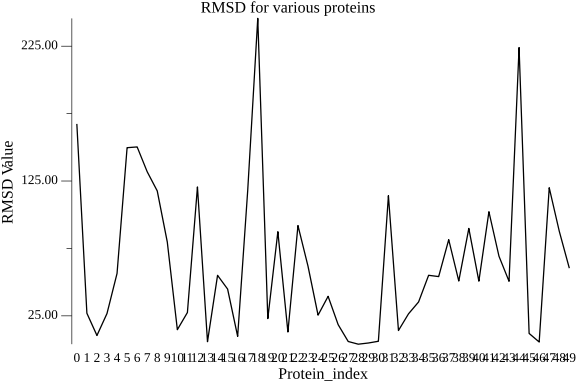
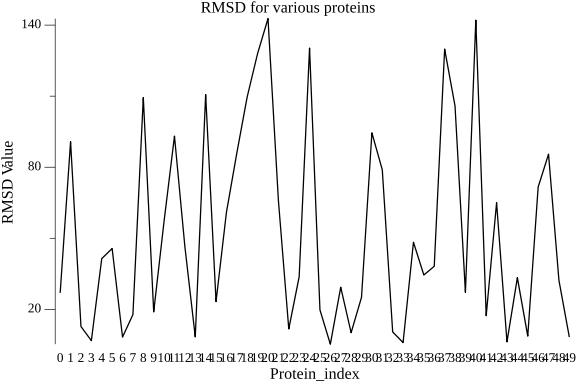
testing function, delete unneccesary rmsd curves

Changed region(s): [[0.0, 0.0312, 1.0, 1.0], [0.0, 0.5312, 0.0312, 0.5938]]

diff --git a/metropolisMethod/metropolis_test.go b/metropolisMethod/metropolis_test.go
@@ -1,0 +1,202 @@
+package main
+
+import (
+	"math"
+	"testing"
+)
+
+func TestSimulateMultipleLigands(t *testing.T) {
+	protein := createMockProtein(1.0, -1.0)
+	ligands := createMockLigands(3)
+	iterations := 1000
+	temperature := 300.0
+	numProcs := 4
+
+	minLigands, minEnergies := SimulateMultipleLigands(protein, ligands, iterations, true, temperature, numProcs)
+
+	if len(minLigands) != len(ligands) || len(minEnergies) != len(ligands) {
+		t.Fatalf("Expected %d ligands and energies, got %d ligands and %d energies", len(ligands), len(minLigands), len(minEnergies))
+	}
+}
+
+func TestSimulateMultipleLigandsParallel(t *testing.T) {
+	protein := createMockProtein(1.0, -1.0)
+	ligands := createMockLigands(5)
+	iterations := 2000
+	temperature := 300.0
+	numProcs := 2
+
+	minLigands, minEnergies := SimulateMultipleLigandsParallel(protein, ligands, iterations, true, temperature, numProcs)
+
+	if len(minLigands) != len(ligands) || len(minEnergies) != len(ligands) {
+		t.Fatalf("Expected %d ligands and energies, got %d ligands and %d energies", len(ligands), len(minLigands), len(minEnergies))
+	}
+}
+
+func TestCalculateEnergyPositive(t *testing.T) {
+	protein := createMockProtein(1.0, 1.0)
+	ligand := createMockLigandWithCustomCharge(1.0, 1.0)
+
+	energy := CalculateEnergy(protein, ligand)
+
+	if energy <= 0 {
+		t.Errorf("Expected positive energy, got %f", energy)
+	}
+}
+
+func TestCalculateEnergyNegative(t *testing.T) {
+	protein := createMockProtein(1.0, 1.0)
+	ligand := createMockLigandWithCustomCharge(-1.0, -1.0)
+
+	energy := CalculateEnergy(protein, ligand)
+
+	if energy >= 0 {
+		t.Errorf("Expected negative energy, got %f", energy)
+	}
+}
+
+func TestAcceptMove(t *testing.T) {
+	currentEnergy := 10.0
+	newEnergy := 5.0
+	temperature := 300.0
+
+	accepted := AcceptMove(currentEnergy, newEnergy, temperature)
+	if !accepted {
+		t.Errorf("Expected move to be accepted")
+	}
+}
+
+func TestJitterLigand(t *testing.T) {
+	ligand := createMockLigand()
+	minDistance := 0.5
+
+	jittered := JitterLigand(ligand, minDistance)
+	if !IsCollisionFree(jittered, minDistance) {
+		t.Errorf("Expected collision-free ligand after jittering")
+	}
+}
+
+func TestRotateLigand(t *testing.T) {
+	ligand := createMockLigand()
+	oldLigand := createMockLigand()
+	maxAngle := math.Pi / 4
+
+	rotated := RotateLigand(ligand, maxAngle)
+	if rotated.atoms[0].Position == oldLigand.atoms[0].Position {
+		t.Errorf("Expected ligand to be rotated")
+	}
+}
+
+func TestShiftLigandCloserByThreshold(t *testing.T) {
+	protein := createMockProtein(1.0, -1.0)
+	ligand := createMockLigand()
+	threshold := 5.0
+
+	shifted := ShiftLigandCloserByThreshold(ligand, protein, threshold)
+	distance1 := Distance(shifted.atoms[0].Position, protein.atoms[0].Position)
+	distance2 := Distance(shifted.atoms[1].Position, protein.atoms[1].Position)
+	if distance1 > threshold && distance2 > threshold {
+		t.Errorf("Expected shifted ligand to be within threshold distance")
+	}
+}
+
+func TestCopyLigand(t *testing.T) {
+	ligand := createMockLigandWithCustomCharge(2.3, -8.7)
+	copied := CopyLigand(ligand)
+
+	if &ligand.atoms[0] == &copied.atoms[0] {
+		t.Errorf("Expected ligand to be deep copied")
+	}
+	if ligand.atoms[0] != ligand.atoms[0] || ligand.atoms[1] != ligand.atoms[1] {
+		t.Errorf("Ligand atom fields don't match")
+	}
+}
+
+func TestDistance(t *testing.T) {
+	pos1 := Position3d{X: 1, Y: 2, Z: 3}
+	pos2 := Position3d{X: 4, Y: 6, Z: 8}
+	expected := math.Sqrt(50)
+	result := Distance(pos1, pos2)
+
+	if result != expected {
+		t.Errorf("Expected distance %f, got %f", expected, result)
+	}
+}
+
+func TestRotateAtom(t *testing.T) {
+	pos := Position3d{X: 1, Y: 0, Z: 0}
+	axis := Position3d{X: 0, Y: 0, Z: 1}
+	theta := math.Pi / 2
+	expected := Position3d{X: 0, Y: 1, Z: 0}
+	result := RotateAtom(pos, axis, theta)
+
+	if !almostEqual(result.X, expected.X, 1e-6) ||
+		!almostEqual(result.Y, expected.Y, 1e-6) ||
+		!almostEqual(result.Z, expected.Z, 1e-6) {
+		t.Errorf("Expected rotated position %v, got %v", expected, result)
+	}
+}
+
+func TestFindClosestAtomDistance(t *testing.T) {
+	protein := createMockProtein(2.0, 4.0)
+	ligand := createMockLigand()
+	expected := math.Sqrt(12.0)
+	distance, _, _ := FindClosestAtomDistance(ligand, protein)
+	if distance != expected {
+		t.Errorf("Expected distance %f, got %f", expected, distance)
+	}
+}
+
+// createMockProtein creates a mock protein molecule with two atoms at specified charges and fixed positions.
+// Input: two float64 charges charge1 and charge2
+// Output: a Molecule
+func createMockProtein(charge1, charge2 float64) Molecule {
+	return Molecule{
+		atoms: []Atom{
+			{Position: Position3d{X: 0, Y: 0, Z: 0}, Charge: charge1},
+			{Position: Position3d{X: 1, Y: 1, Z: 1}, Charge: charge2},
+		},
+	}
+}
+
+// createMockLigands generates a specified number of mock ligands with default atomic properties.
+// Input: an int count
+// Output: a slice of Molecule
+func createMockLigands(count int) []Molecule {
+	ligands := make([]Molecule, count)
+	for i := 0; i < count; i++ {
+		ligands[i] = createMockLigand()
+	}
+	return ligands
+}
+
+// createMockLigand creates a mock ligand molecule with two atoms of fixed charges and positions
+// Input: none
+// Output: a Molecule
+func createMockLigand() Molecule {
+	return Molecule{
+		atoms: []Atom{
+			{Position: Position3d{X: 4, Y: 4, Z: 4}, Charge: 1},
+			{Position: Position3d{X: 3, Y: 3, Z: 3}, Charge: -1},
+		},
+	}
+}
+
+// createMockLigandWithCustomCharge creates a mock ligand molecule with two atoms having specified charges and fixed positions.
+// Input: two float64 charges charge1 and charge2
+// Output: a Molecule
+func createMockLigandWithCustomCharge(charge1, charge2 float64) Molecule {
+	return Molecule{
+		atoms: []Atom{
+			{Position: Position3d{X: 4, Y: 4, Z: 4}, Charge: charge1},
+			{Position: Position3d{X: 3, Y: 3, Z: 3}, Charge: charge2},
+		},
+	}
+}
+
+// almostEqual compares two float64 values and checks if they are within a specified tolerance epsilon.
+// Input: two float64 values a and b, a float64 epsilon
+// Output: a bool indicating if the values are approximately equal
+func almostEqual(a, b float64, epsilon float64) bool {
+	return math.Abs(a-b) <= epsilon
+}

diff --git a/metropolisMethod/metropolis.go b/metropolisMethod/metropolis.go
@@ -159,7 +159,7 @@ func JitterLigand(ligand Molecule, minDistance float64) Molecule {
 			newLigand.atoms[i].Position.Y += (rand.Float64() - 0.5) * 0.1
 			newLigand.atoms[i].Position.Z += (rand.Float64() - 0.5) * 0.1
 		}
-		if isCollisionFree(newLigand, minDistance) {
+		if IsCollisionFree(newLigand, minDistance) {
 			return newLigand
 		}
 
@@ -177,7 +177,7 @@ func JitterAndRotateLigand(ligand Molecule, minDistance float64, maxAngle float6
 			newLigand.atoms[i].Position.Y += (rand.Float64() - 0.5) * 0.1
 			newLigand.atoms[i].Position.Z += (rand.Float64() - 0.5) * 0.1
 		}
-		if isCollisionFree(newLigand, minDistance) {
+		if IsCollisionFree(newLigand, minDistance) {
 			return newLigand
 		}
 	}
@@ -223,10 +223,10 @@ func RotateAtom(pos, axis Position3d, theta float64) Position3d {
 	return Position3d{X: x, Y: y, Z: z}
 }
 
-// isCollisionFree checks for atomic collisions in the ligand based on a minimum allowed distance.
+// IsCollisionFree checks for atomic collisions in the ligand based on a minimum allowed distance.
 // Input: a Molecule ligand, a float64 minimum distance
 // Output: a bool indicating if the ligand is collision-free
-func isCollisionFree(ligand Molecule, minDistance float64) bool {
+func IsCollisionFree(ligand Molecule, minDistance float64) bool {
 	for i := 0; i < len(ligand.atoms); i++ {
 		for j := i + 1; j < len(ligand.atoms); j++ {
 			dx := ligand.atoms[i].Position.X - ligand.atoms[j].Position.X

diff --git a/metropolisMethod/validateResults.go b/metropolisMethod/validateResults.go
@@ -13,7 +13,7 @@ import (
 // Output: none (prints the average RMSD and generates an RMSD curve plot)
 func MultipleProteinRMSD(dir string, iterations int, rotate bool, numProteins int, numProcs int) {
 	proteinFiles, err := findFilesWithSubstring(dir, "protein")
-	proteinFiles = proteinFiles[50 : numProteins+50]
+	proteinFiles = proteinFiles[0:numProteins]
 	proteinLabels := make([]string, len(proteinFiles))
 	Check(err)
 	rmsd := make([]float64, len(proteinFiles))

diff --git a/PLAS20K/splitPDB.go b/PLAS20K/splitPDB.go
@@ -10,7 +10,7 @@ import (
 	"strings"
 )
 
-func main() {
+func splitPDB() {
 	outputDir := "./PDB_splitted"
 
 	pdbs := ReadDirectory("./PDB_origional")
@@ -21,12 +21,6 @@ func main() {
 		WriteProtein(inputFile, outputDir)
 		WriteLigand(inputFile, outputDir)
 	}
-
-	// for test
-	// inputFile := "./PDBdata/1a4h.pdb.gz"
-
-	// WriteProtein(inputFile, outputDir)
-	// WriteLigand(inputFile, outputDir)
 }
 
 func ReadDirectory(dir string) []fs.DirEntry {
